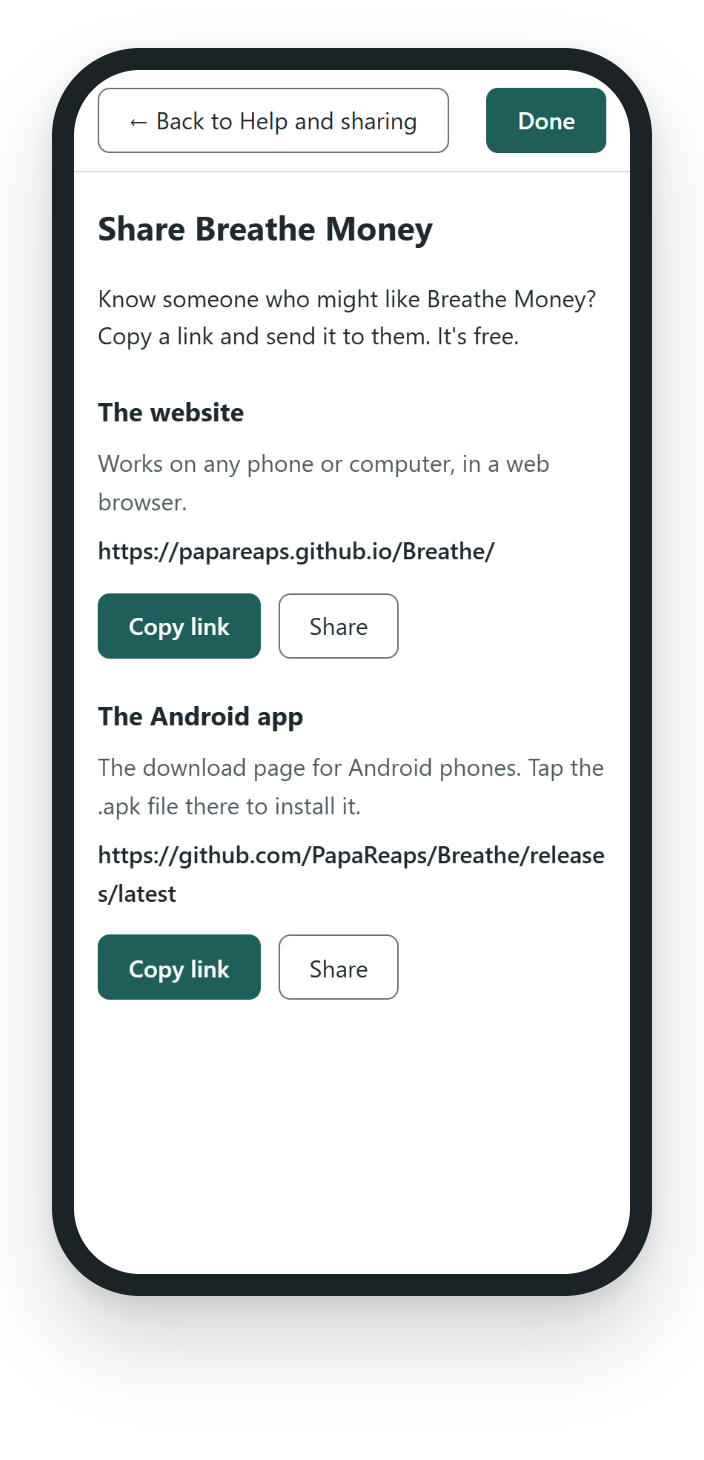
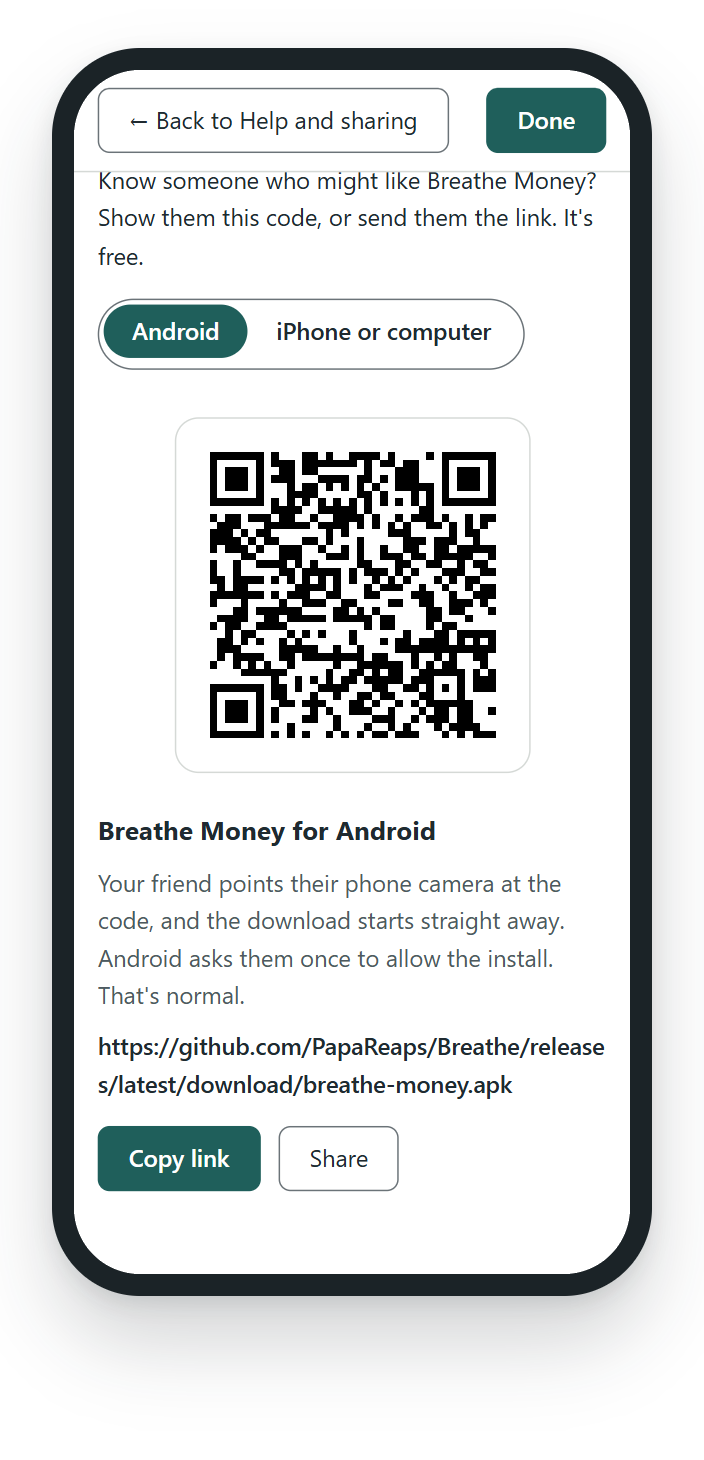
Front page: Share picture shows the new QR code screen

diff --git a/README.md b/README.md
@@ -139,7 +139,7 @@ Change anything and the number updates as you type. Dark mode follows your phone
 <p align="center">
   <picture>
     <source media="(prefers-color-scheme: dark)" srcset="docs/images/row-share-dark.png">
-    <img src="docs/images/row-share.png" alt="Three screens: Share Breathe Money, with links to copy or share; Help and sharing; and Report a problem" width="100%">
+    <img src="docs/images/row-share.png" alt="Three screens: Share Breathe Money, with a QR code a friend can scan, a switch for Android or iPhone, and the link to copy or share; Help and sharing; and Report a problem" width="100%">
   </picture>
 </p>
 
